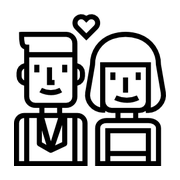
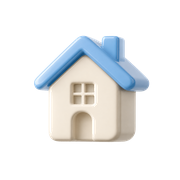
Add files via upload

diff --git a/log/index.html b/log/index.html
@@ -237,7 +237,7 @@
   /* ===== weekly table (menu / plan) ===== */
   .week-wrap{overflow-x:auto; margin-bottom:6px; border-radius:12px;}
   .week-table{border-collapse:collapse; width:100%; min-width:260px; table-layout:fixed;}
-  .week-table td.rowlabel, .week-table th:first-child{width:44px;}
+  .week-table td.rowlabel, .week-table th:first-child{width:50px;}
   .week-table th{
     font-family:var(--font-mono); font-size:11px; color:var(--muted); font-weight:700;
     padding:6px 4px; text-align:center;
@@ -245,8 +245,16 @@
   .week-table td{padding:4px;}
   .week-table td.rowlabel{
     font-size:12.5px; font-weight:600; color:var(--ink); text-align:center;
-    white-space:nowrap; padding-right:6px; width:44px;
+    white-space:nowrap; padding-right:6px; width:50px;
   }
+  .day-btn{
+    width:100%; border:1px solid transparent; background:none; cursor:pointer;
+    border-radius:8px; padding:5px 2px; display:flex; flex-direction:column;
+    align-items:center; gap:1px; transition:background .15s ease, border-color .15s ease;
+  }
+  .day-btn:hover{background:var(--plan-soft); border-color:var(--plan);}
+  .rl-date{font-family:var(--font-mono); font-size:10.5px; color:var(--muted);}
+  .rl-wd{font-size:12.5px; font-weight:700; color:var(--ink);}
   .week-table input{
     width:100%; min-width:66px; border:1px solid var(--line); border-radius:8px;
     padding:7px 5px; font-size:12.5px; background:var(--bg); text-align:center;
@@ -269,7 +277,13 @@
   .mini-cal-title{
     font-family:var(--font-mono); font-size:12px; font-weight:700;
     color:var(--ink); margin-bottom:8px;
+    display:flex; align-items:center; justify-content:space-between;
   }
+  .cal-nav{
+    border:none; background:none; color:var(--muted); cursor:pointer;
+    font-size:15px; padding:2px 6px; border-radius:6px; line-height:1;
+  }
+  .cal-nav:hover{background:var(--bg); color:var(--plan);}
   .mini-cal-table{border-collapse:collapse; width:100%;}
   .mini-cal-table th{
     font-family:var(--font-mono); font-size:10px; color:var(--muted); font-weight:700;
@@ -485,13 +499,18 @@ function emptyDays(rowKeys){
   });
   return obj;
 }
+function emptyBoolDays(){
+  const obj = {};
+  WD_KEYS.forEach(dk=> obj[dk] = false);
+  return obj;
+}
 
 function blankMeeting(){
   return {
     id: uid(),
     date: todayStr(),
     menu: { ingredients:'', shopping:'', notes:'', days: emptyDays(['lunch','dinner']) },
-    plan: { days: emptyDays(['jihyun','hyeonje']), monthlyPlan: '' },
+    plan: { days: emptyDays(['jihyun','hyeonje']), merged: emptyBoolDays(), todos: [] },
     finance: { review:'', wishlist:[], investReview:'' },
     happiness: { me:{score:5,good:'',wish:''}, partner:{score:5,good:'',wish:''} },
     travel: { items: [] },
@@ -576,7 +595,7 @@ function dayHasAny(daysObj, rowKeys){
 
 function hasContent(m, cat){
   if(cat==='menu') return !!(m.menu.ingredients.trim() || m.menu.shopping.trim() || m.menu.notes.trim() || dayHasAny(m.menu.days, ['morning','lunch','dinner']));
-  if(cat==='plan') return dayHasAny(m.plan.days, ['jihyun','hyeonje']);
+  if(cat==='plan') return dayHasAny(m.plan.days, ['jihyun','hyeonje']) || (m.plan.todos && m.plan.todos.length>0);
   if(cat==='finance') return !!(m.finance.review.trim() || m.finance.investReview.trim() || m.finance.wishlist.length);
   if(cat==='happy') return !!(m.happiness.me.good.trim()||m.happiness.me.wish.trim()||m.happiness.partner.good.trim()||m.happiness.partner.wish.trim());
   if(cat==='travel') return m.travel.items.length>0;
@@ -659,7 +678,9 @@ function createMeeting(sourceId){
         .filter(a=>!a.done)
         .map(a=>({ id: uid(), text: a.text, done: a.done }))
     }));
-    m.plan.monthlyPlan = prev.plan.monthlyPlan;
+    m.plan.todos = (prev.plan.todos||[])
+      .filter(t=>!t.done)
+      .map(t=>({ id: uid(), text: t.text, done: false }));
     m.menu.ingredients = prev.menu.ingredients;
     m.menu.notes = prev.menu.notes;
     m.finance.wishlist = prev.finance.wishlist
@@ -677,6 +698,7 @@ function createMeeting(sourceId){
 function openDetail(id, tab){
   currentId = id;
   activeTab = tab || 'plan';
+  calViewYear = null; calViewMonth = null;
   document.getElementById('homeView').style.display = 'none';
   document.getElementById('detailView').style.display = 'block';
   const m = findMeeting(id);
@@ -754,18 +776,20 @@ function renderPanel(){
   if(activeTab==='plan'){
     wrap.innerHTML = `
       <div class="panel" style="--accent:${color}">
-        <div class="p-title">🗓 주간 계획</div>
-        <div class="p-sub">요일별로 각자의 한 주 계획을 적어보세요.</div>
+        <div class="p-title">🗓 계획</div>
+        <div class="p-sub">이번 달 할 일과 다음 주 계획을 함께 정리해요.</div>
 
         <div class="plan-top">
           ${renderMiniCalendar(m.date)}
           <div class="monthly-plan">
-            <div class="field-label">월별 계획</div>
-            <textarea placeholder="이번 달 계획을 적어보세요..." onchange="m_updatePlanMonthly(this.value)">${esc(m.plan.monthlyPlan)}</textarea>
+            <div class="field-label">To-do</div>
+            <div id="planTodoList">${renderPlanTodos(m.plan.todos)}</div>
+            <button class="line-add" style="color:${color}" onclick="planTodoAdd()">+ 할 일 추가</button>
           </div>
         </div>
 
-        ${renderWeekTable(m.plan.days, PLAN_ROWS, 'planDayUpdate', 'list')}
+        <div class="field-label">주간 계획</div>
+        ${renderPlanWeekTable(m)}
       </div>
     `;
     wrap.querySelectorAll('.plan-cell').forEach(autoGrowPlan);
@@ -919,9 +943,15 @@ function getSunday(dateInput){
 }
 function sameDate(a,b){ return a.getFullYear()===b.getFullYear() && a.getMonth()===b.getMonth() && a.getDate()===b.getDate(); }
 
-function computeWeekLabel(meetingDateStr){
+function getHighlightRange(meetingDateStr){
   const meetingMonday = getMonday(meetingDateStr + 'T00:00:00');
   const hlStart = new Date(meetingMonday); hlStart.setDate(hlStart.getDate()+7);
+  const hlEnd = new Date(hlStart); hlEnd.setDate(hlEnd.getDate()+6);
+  return {hlStart, hlEnd};
+}
+
+function computeWeekLabel(meetingDateStr){
+  const {hlStart} = getHighlightRange(meetingDateStr);
   const calYear = hlStart.getFullYear();
   const calMonth = hlStart.getMonth();
   const firstOfMonth = new Date(calYear, calMonth, 1);
@@ -932,14 +962,27 @@ function computeWeekLabel(meetingDateStr){
 }
 
 const WD_CAL = ['일','월','화','수','목','금','토'];
+let calViewYear = null;
+let calViewMonth = null;
+
+function calPrevMonth(){
+  if(calViewMonth===0){ calViewMonth=11; calViewYear--; } else calViewMonth--;
+  renderPanel();
+}
+function calNextMonth(){
+  if(calViewMonth===11){ calViewMonth=0; calViewYear++; } else calViewMonth++;
+  renderPanel();
+}
 
 function renderMiniCalendar(meetingDateStr){
-  const meetingMonday = getMonday(meetingDateStr + 'T00:00:00');
-  const hlStart = new Date(meetingMonday); hlStart.setDate(hlStart.getDate()+7);
-  const hlEnd = new Date(hlStart); hlEnd.setDate(hlEnd.getDate()+6);
+  const {hlStart, hlEnd} = getHighlightRange(meetingDateStr);
 
-  const calYear = hlStart.getFullYear();
-  const calMonth = hlStart.getMonth();
+  if(calViewYear===null || calViewMonth===null){
+    calViewYear = hlStart.getFullYear();
+    calViewMonth = hlStart.getMonth();
+  }
+  const calYear = calViewYear;
+  const calMonth = calViewMonth;
   const firstOfMonth = new Date(calYear, calMonth, 1);
   const lastOfMonth = new Date(calYear, calMonth+1, 0);
   const gridStart = getSunday(firstOfMonth);
@@ -966,7 +1009,11 @@ function renderMiniCalendar(meetingDateStr){
 
   return `
     <div class="mini-cal">
-      <div class="mini-cal-title">${calYear}년 ${calMonth+1}월</div>
+      <div class="mini-cal-title">
+        <button class="cal-nav" onclick="calPrevMonth()">‹</button>
+        <span>${calYear}년 ${calMonth+1}월</span>
+        <button class="cal-nav" onclick="calNextMonth()">›</button>
+      </div>
       <table class="mini-cal-table">
         <thead><tr>${headerCells}</tr></thead>
         <tbody>${bodyRows}</tbody>
@@ -975,7 +1022,103 @@ function renderMiniCalendar(meetingDateStr){
   `;
 }
 
-function m_updatePlanMonthly(val){ findMeeting(currentId).plan.monthlyPlan = val; queueSave(); }
+function renderPlanTodos(items){
+  if(!items || items.length===0) return '';
+  return items.map(t=>`
+    <div class="act-item ${t.done?'done':''}">
+      <input type="checkbox" ${t.done?'checked':''} onchange="planTodoUpdate('${t.id}','done', this.checked)">
+      <input type="text" placeholder="할 일" value="${escAttr(t.text)}" onchange="planTodoUpdate('${t.id}','text', this.value)">
+      <button class="line-del" onclick="planTodoDel('${t.id}')">×</button>
+    </div>
+  `).join('');
+}
+function planTodoAdd(){
+  const m = findMeeting(currentId);
+  if(!m.plan.todos) m.plan.todos = [];
+  m.plan.todos.push({id:uid(), text:'', done:false});
+  renderPanel(); queueSave();
+}
+function planTodoUpdate(id, field, val){
+  const m = findMeeting(currentId);
+  const t = m.plan.todos.find(x=>x.id===id);
+  t[field]=val;
+  if(field==='done') renderPanel();
+  queueSave();
+}
+function planTodoDel(id){
+  const m = findMeeting(currentId);
+  m.plan.todos = m.plan.todos.filter(x=>x.id!==id);
+  renderPanel(); queueSave();
+}
+
+function renderPlanWeekTable(m){
+  if(!m.plan.merged) m.plan.merged = emptyBoolDays();
+  const {hlStart} = getHighlightRange(m.date);
+
+  const headerCells = PLAN_ROWS.map(r=>`<th>${r.label}</th>`).join('');
+  const bodyRows = WD_KEYS.map((dk,i)=>{
+    const d = new Date(hlStart); d.setDate(d.getDate()+i);
+    const label = `
+      <button class="day-btn" onclick="togglePlanMerge('${dk}')">
+        <span class="rl-date">${d.getMonth()+1}/${d.getDate()}</span>
+        <span class="rl-wd">${WD[i]}</span>
+      </button>
+    `;
+    const day = m.plan.days[dk];
+    let cellsHtml;
+    if(m.plan.merged[dk]){
+      cellsHtml = `
+        <td colspan="2">
+          <textarea class="plan-cell" rows="1"
+            oninput="autoGrowPlan(this); planDayUpdate('${dk}','jihyun', this.value)">${esc(day.jihyun)}</textarea>
+        </td>
+      `;
+    }else{
+      cellsHtml = `
+        <td>
+          <textarea class="plan-cell" rows="1"
+            oninput="autoGrowPlan(this); planDayUpdate('${dk}','jihyun', this.value)">${esc(day.jihyun)}</textarea>
+        </td>
+        <td>
+          <textarea class="plan-cell" rows="1"
+            oninput="autoGrowPlan(this); planDayUpdate('${dk}','hyeonje', this.value)">${esc(day.hyeonje)}</textarea>
+        </td>
+      `;
+    }
+    return `<tr><td class="rowlabel">${label}</td>${cellsHtml}</tr>`;
+  }).join('');
+
+  return `<div class="week-wrap"><table class="week-table"><thead><tr><th></th>${headerCells}</tr></thead><tbody>${bodyRows}</tbody></table></div>`;
+}
+
+function togglePlanMerge(dayKey){
+  const m = findMeeting(currentId);
+  if(!m.plan.merged) m.plan.merged = emptyBoolDays();
+  const day = m.plan.days[dayKey];
+  const isMerged = !!m.plan.merged[dayKey];
+
+  if(!isMerged){
+    const parts = [];
+    if(day.jihyun) parts.push(day.jihyun);
+    if(day.hyeonje) parts.push(day.hyeonje);
+    day.jihyun = parts.join('\n');
+    day.hyeonje = '';
+    m.plan.merged[dayKey] = true;
+  }else{
+    const text = day.jihyun || '';
+    const idx = text.indexOf('\n');
+    if(idx === -1){
+      day.jihyun = text;
+      day.hyeonje = '';
+    }else{
+      day.jihyun = text.slice(0, idx);
+      day.hyeonje = text.slice(idx+1);
+    }
+    m.plan.merged[dayKey] = false;
+  }
+  queueSave();
+  renderPanel();
+}
 
 function m_updateMenuField(field, v){ findMeeting(currentId).menu[field]=v; queueSave(); }
 
@@ -1046,6 +1189,7 @@ document.getElementById('deleteBtn').addEventListener('click', ()=>{
 document.getElementById('dateInput').addEventListener('change', (e)=>{
   findMeeting(currentId).date = e.target.value;
   queueSave();
+  calViewYear = null; calViewMonth = null;
   if(activeTab==='plan') renderPanel();
 });
 document.getElementById('monthFilter').addEventListener('change', (e)=>{
